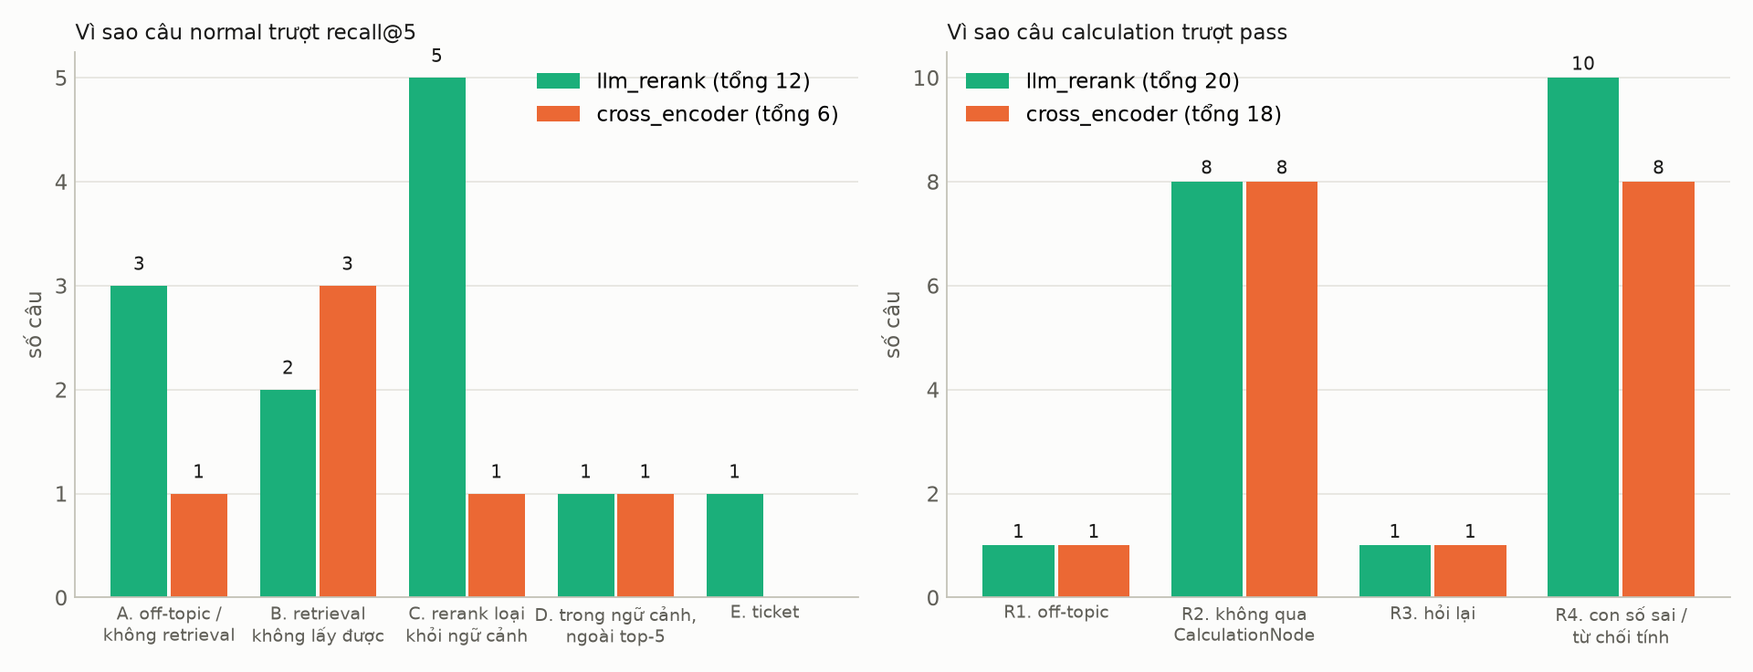
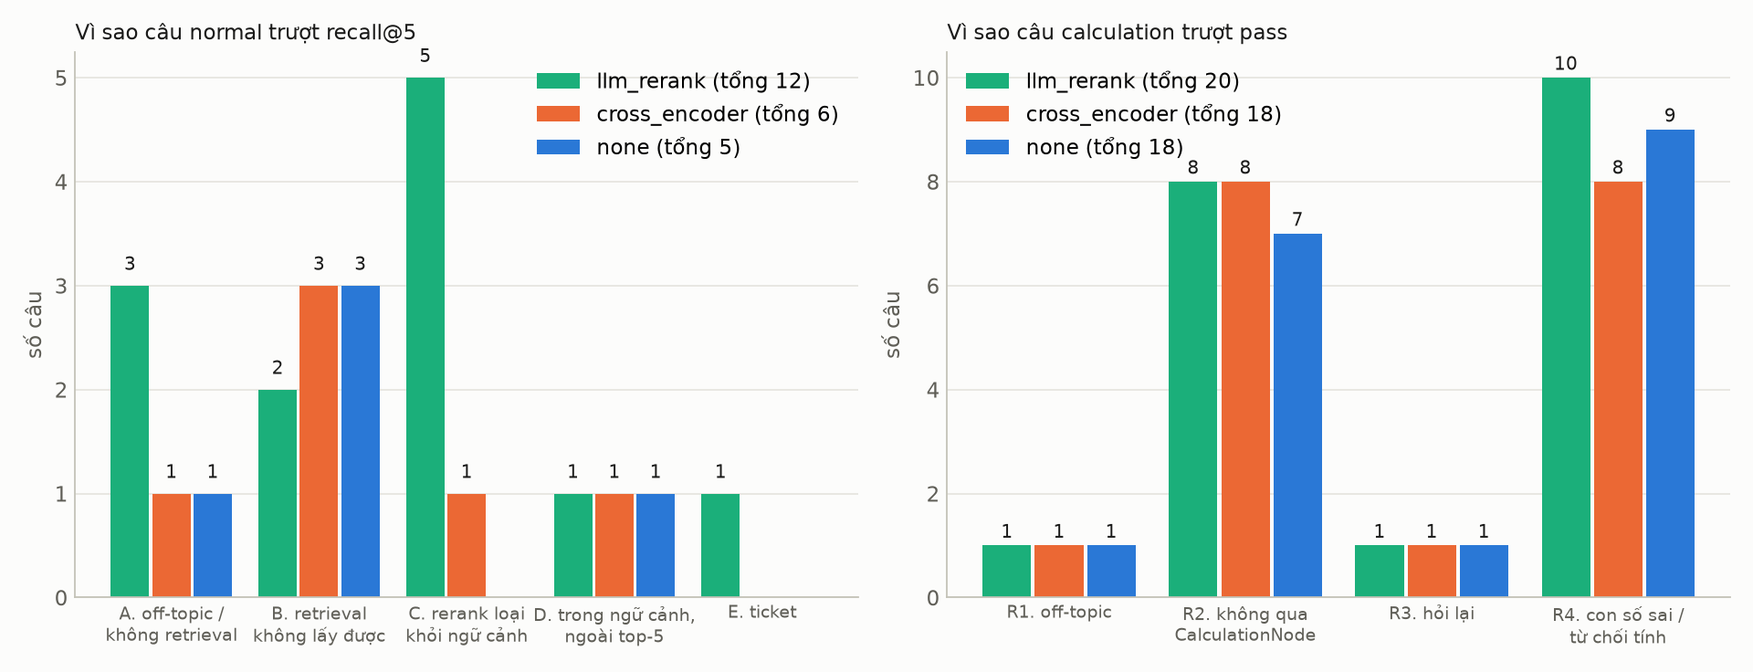
[UNISAGE-106] Báo cáo: bước F chế độ none (runs/rrf-only) — hoà cross_encoder, khuyến nghị đổi sang none mặc định
- report.md 1.3 viết lại khuyến nghị theo 4 chế độ; 7.1/7.2 thêm cột none; 7.7 mới; 8.1/8.2 cập nhật;
  hình 7 và 8 vẽ lại với none; phụ lục lệnh bước F
- plan/spec/todo đồng bộ kết quả và khuyến nghị mới

diff --git a/changes/22-10-2026-CrossEncoderBenchmark/plot_all.py b/changes/22-10-2026-CrossEncoderBenchmark/plot_all.py
@@ -4,7 +4,7 @@ matplotlib.use("Agg")
 import matplotlib.pyplot as plt
 
 OUT = pathlib.Path(sys.argv[1]); OUT.mkdir(exist_ok=True)
-C = {"retrieval": "#2a78d6", "cross_encoder": "#eb6834", "llm_rerank": "#1baf7a", "cross_encoder_then_llm": "#eda100"}
+C = {"retrieval": "#2a78d6", "none": "#2a78d6", "cross_encoder": "#eb6834", "llm_rerank": "#1baf7a", "cross_encoder_then_llm": "#eda100"}
 NAME = {"retrieval": "Thứ tự retrieval (RRF)", "cross_encoder": "cross_encoder", "llm_rerank": "llm_rerank", "cross_encoder_then_llm": "cross_encoder_then_llm"}
 INK, INK2, GRID, SURF = "#1a1a19", "#5f5e57", "#e6e5df", "#fcfcfb"
 plt.rcParams.update({"font.size": 10.5, "font.family": "DejaVu Sans", "axes.edgecolor": "#c3c2b7", "axes.labelcolor": INK2, "xtick.color": INK2, "ytick.color": INK2})
@@ -134,7 +134,7 @@ ax.set_xticks(range(3)); ax.set_xticklabels(names); ax.set_ylabel("ms"); ax.set_
 save(f, "fig6-rerank-latency.png")
 
 # ---- Fig 7: e2e comparison
-E = {"llm_rerank": load("runs/hybrid-on"), "cross_encoder": load("runs/ce-on"), "cross_encoder_then_llm": load("runs/ce-then-llm")}
+E = {"none": load("runs/rrf-only"), "llm_rerank": load("runs/hybrid-on"), "cross_encoder": load("runs/ce-on"), "cross_encoder_then_llm": load("runs/ce-then-llm")}
 def e2e(rs):
     ch = lambda r: r.get("checks") or {}
     normal = [r for r in rs.values() if r["category"] == "normal"]; calc = [r for r in rs.values() if r["category"] == "calculation"]
@@ -146,28 +146,29 @@ def e2e(rs):
         p50=pct([r["total_ms"] for r in rs.values() if r.get("total_ms")], .5), p95=pct([r["total_ms"] for r in rs.values() if r.get("total_ms")], .95),
         usd=st.mean(r["usage"]["usd"] for r in rs.values() if r.get("usage"))*1000, calls=st.mean(r["usage"]["calls"] for r in rs.values() if r.get("usage")))
 S = {n: e2e(rs) for n, rs in E.items()}
-names = ["llm_rerank", "cross_encoder", "cross_encoder_then_llm"]
-f = fig(13, 4.6)
+names = ["none", "llm_rerank", "cross_encoder", "cross_encoder_then_llm"]
+SHORT = ["none\n(RRF)", "llm", "cross_\nencoder", "ce_then_\nllm"]
+f = fig(14, 4.8)
 ax = f.add_subplot(141); style(ax, "Độ chính xác e2e (%)\n154 câu, cache tắt")
 ms = [("normal_recall", "normal\nrecall@5"), ("calc_pass", "calc\npass"), ("calc_recall", "calc\nrecall@5")]
 for j, n in enumerate(names):
-    xs = [i + (j-1)*0.27 for i in range(3)]; vals = [S[n][m] for m, _ in ms]
-    ax.bar(xs, vals, width=0.25, color=C[n], label=n)
-    for xx, v in zip(xs, vals): ax.text(xx, v+1.5, f"{v:.0f}", ha="center", fontsize=8.5, color=INK)
-ax.set_xticks(range(3)); ax.set_xticklabels([l for _, l in ms]); ax.set_ylim(0, 110); ax.legend(frameon=False, fontsize=8.5, loc="upper right")
+    xs = [i + (j-1.5)*0.21 for i in range(3)]; vals = [S[n][m] for m, _ in ms]
+    ax.bar(xs, vals, width=0.2, color=C[n], label=n)
+    for xx, v in zip(xs, vals): ax.text(xx, v+1.5, f"{v:.0f}", ha="center", fontsize=8, color=INK)
+ax.set_xticks(range(3)); ax.set_xticklabels([l for _, l in ms]); ax.set_ylim(0, 118); ax.legend(frameon=False, fontsize=8, loc="upper right", ncol=2)
 ax = f.add_subplot(142); style(ax, "Số câu có dấu hiệu từ chối\n(refusal_hint) trên 154")
-vals = [S[n]["refusal"] for n in names]; ax.bar(range(3), vals, color=[C[n] for n in names], width=0.6)
+vals = [S[n]["refusal"] for n in names]; ax.bar(range(4), vals, color=[C[n] for n in names], width=0.6)
 for i, v in enumerate(vals): ax.text(i, v+1, str(v), ha="center", fontsize=9.5, color=INK)
-ax.set_xticks(range(3)); ax.set_xticklabels(["llm", "cross_\nencoder", "ce_then_\nllm"]); ax.set_ylim(0, 50)
+ax.set_xticks(range(4)); ax.set_xticklabels(SHORT); ax.set_ylim(0, 50)
 ax = f.add_subplot(143); style(ax, "Độ trễ cả lượt (ms)\np50 đậm, p95 nhạt")
 for i, n in enumerate(names):
     ax.bar(i-0.2, S[n]["p50"], width=0.38, color=C[n]); ax.bar(i+0.2, S[n]["p95"], width=0.38, color=C[n], alpha=0.45)
     ax.text(i-0.2, S[n]["p50"]+300, f"{S[n]['p50']/1000:.1f}s".replace(".", ","), ha="center", fontsize=8.5, color=INK); ax.text(i+0.2, S[n]["p95"]+300, f"{S[n]['p95']/1000:.1f}s".replace(".", ","), ha="center", fontsize=8.5, color=INK)
-ax.set_xticks(range(3)); ax.set_xticklabels(["llm", "cross_\nencoder", "ce_then_\nllm"]); ax.set_ylim(0, 21000)
+ax.set_xticks(range(4)); ax.set_xticklabels(SHORT); ax.set_ylim(0, 21000)
 ax = f.add_subplot(144); style(ax, "Chi phí LLM mỗi lượt\n(USD × 1000, số lượt gọi)")
-vals = [S[n]["usd"] for n in names]; ax.bar(range(3), vals, color=[C[n] for n in names], width=0.6)
-for i, n in enumerate(names): ax.text(i, vals[i]+0.1, f"{vals[i]:.2f}\n({S[n]['calls']:.2f} gọi)".replace(".", ","), ha="center", fontsize=8.5, color=INK)
-ax.set_xticks(range(3)); ax.set_xticklabels(["llm", "cross_\nencoder", "ce_then_\nllm"]); ax.set_ylim(0, 7.5)
+vals = [S[n]["usd"] for n in names]; ax.bar(range(4), vals, color=[C[n] for n in names], width=0.6)
+for i, n in enumerate(names): ax.text(i, vals[i]+0.1, f"{vals[i]:.2f}\n({S[n]['calls']:.2f} gọi)".replace(".", ","), ha="center", fontsize=8, color=INK)
+ax.set_xticks(range(4)); ax.set_xticklabels(SHORT); ax.set_ylim(0, 7.5)
 save(f, "fig7-e2e-comparison.png")
 
 # ---- Fig 8: failure reasons per run
@@ -190,12 +191,12 @@ for k_, (cat, fn, title, key_, order_) in enumerate((("normal", normal_reason, "
                                                       ("calculation", calc_reason, "Vì sao câu calculation trượt pass", "pass", ["R1. off-topic", "R2. không qua\nCalculationNode", "R3. hỏi lại", "R4. con số sai /\ntừ chối tính"]))):
     ax = f.add_subplot(1, 2, k_+1); style(ax, title)
     cnts = {}
-    for n in ["llm_rerank", "cross_encoder"]:
+    for n in ["llm_rerank", "cross_encoder", "none"]:
         c_ = collections.Counter(fn(r) for r in E[n].values() if r["category"] == cat and (r.get("checks") or {}).get(key_) is False)
         cnts[n] = [c_.get(o, 0) for o in order_]
     x = range(len(order_))
     for j, n in enumerate(cnts):
-        xs = [i + (j-0.5)*0.4 for i in x]; ax.bar(xs, cnts[n], width=0.38, color=C[n], label=f"{n} (tổng {sum(cnts[n])})")
+        xs = [i + (j-1)*0.28 for i in x]; ax.bar(xs, cnts[n], width=0.26, color=C[n], label=f"{n} (tổng {sum(cnts[n])})")
         for xx, v in zip(xs, cnts[n]):
             if v: ax.text(xx, v+0.15, str(v), ha="center", fontsize=9, color=INK)
     ax.set_xticks(list(x)); ax.set_xticklabels(order_, fontsize=8.5); ax.set_ylabel("số câu"); ax.legend(frameon=False)

diff --git a/changes/22-10-2026-CrossEncoderBenchmark/report.md b/changes/22-10-2026-CrossEncoderBenchmark/report.md
@@ -132,34 +132,50 @@ hoặc tạm giữ `llm` riêng cho nhánh này (graph đã tách hai chỗ gọ
 
 ### 1.3. Khuyến nghị
 
-**Bật `CHAT_RERANK_MODE=cross_encoder` làm mặc định cho môi trường có GPU (dev, eval, và
-production nếu máy chủ có GPU ≥ 2,5 GB trống), giữ `llm` làm fail-over tự động như đã cài.**
-Lý do bằng số, trên cùng 154 câu demo:
+**Kết quả mạnh nhất của benchmark không phải "cross-encoder thắng LLM" mà là "trên corpus này
+bước rerank không còn việc để làm".** Thứ tự RRF của hybrid retrieval đã chạm trần của bộ ứng
+viên; mọi bộ rerank chỉ có thể giữ nguyên hoặc làm hỏng. Bốn chế độ ở tầng câu trả lời, cùng
+154 câu (mục 7, 7.7):
 
-- Nhanh hơn: bước rerank 112 ms thay vì 1 696 ms (median, −93 %); cả lượt chat p50 4,6 s thay vì
-  5,3 s (−13,5 %), p95 7,5 s thay vì 9,5 s (−20 %).
-- Đúng hơn ở nhóm normal: thêm 6 câu có tài liệu đúng trong top-5 (110 so với 104), ít câu từ
-  chối trả lời hơn (32 so với 41), không còn ticket fallback (0 so với 1), độ chính xác trích
-  dẫn 0,910 so với 0,891.
-- Rẻ hơn và ổn định hơn: bớt đúng một lượt gọi LLM mỗi lượt (2,33 so với 3,32), chi phí
-  −10 % (0,00503 so với 0,00557 USD/lượt), kết quả tất định 100 % (LLM chỉ 49,6 % câu cho cùng
-  tập chunk qua 3 lần chạy), và không còn phụ thuộc rate limit 15 lượt/phút của credential
-  RERANK, thứ đã làm LLM rerank lỗi ở 70/154 lượt của run gốc.
+| | `none` (RRF, không rerank) | `cross_encoder` | `llm` (hiện tại) | `cross_encoder_then_llm` |
+|---|---|---|---|---|
+| normal recall@5 | **111/116** | 110/116 | 104/116 | 108/116 |
+| calculation pass | 19/37 (*) | **20/38** | 18/38 | **21/38** |
+| Từ chối trả lời | 31 | 32 | 41 | **29** |
+| Ticket fallback | 0 | 0 | 1 | 1 |
+| Cả lượt p50 / p95 | 4,9 s / 8,2 s (*) | **4,6 s / 7,5 s** | 5,3 s / 9,5 s | 6,6 s / 17,9 s |
+| USD / lượt | **0,00483** | 0,00503 | 0,00557 | 0,00540 |
+| Cần gì thêm | không gì | GPU 2,5 GB + service | API + rate limit | cả hai |
 
-**Không khuyến nghị `cross_encoder_then_llm`**: không chính xác hơn `llm_rerank` (0,876 so với
-0,880 ở bước rerank; 108 so với 104 ở tầng câu trả lời nhưng kém `cross_encoder` 110), vẫn tốn một
-lượt LLM, vẫn dính rate limit (32 lượt lỗi), p95 cả lượt 17,9 s trong điều kiện eval.
+(*) `none` có 1 lượt lỗi 504 của model sinh (d0316, 33 s) không liên quan rerank; bỏ lượt đó
+pass là 19/37 và p95 ~7,9 s.
 
-**Điều kiện và việc cần làm trước khi bật ở production** (chi tiết mục 8):
+`none` và `cross_encoder` **hoà trong mức nhiễu** (±1–2 câu, mức dao động của chính model sinh
+giữa hai lần chạy). Cả hai hơn `llm` rõ: +6–7 câu normal, +1–2 pass calculation, −9–10 câu từ
+chối, −10–13 % chi phí, nhanh hơn 0,5–0,7 s mỗi lượt.
 
-1. Đo lại Bảng 2 và 3 trên RTX 3060 (Windows); nếu p95 > 500 ms thì giảm `RERANKER_MAX_LENGTH`
-   xuống 512 và đo lại recall.
-2. Giữ `CHAT_WEB_SEARCH_ENABLED=false` hoặc chấp nhận rằng ở chế độ `cross_encoder` web search
-   chỉ chạy khi retrieval trả về 0 chunk (cross-encoder không bao giờ "loại hết").
-3. Theo dõi 2 điểm yếu thật của cross-encoder: bảng toàn tên riêng (d0010) và tài liệu trùng
-   tiêu đề (bộ "Kết quả thi chứng chỉ CNTT ca 1/ca 2").
-4. Sửa nguyên nhân rate limit của credential RERANK/Extraction (maxRpm 15) độc lập với ticket
-   này; nó làm méo mọi số đo của biến thể LLM.
+**Khuyến nghị theo thứ tự:**
+
+1. **Đặt `CHAT_RERANK_MODE=none` làm mặc định** ở mọi môi trường: bằng cross-encoder về chất
+   lượng, rẻ nhất, không cần GPU, không thêm tiến trình, không có gì để hỏng. Bước 09a trở thành
+   "sàn cosine 0,45 rồi lấy 8 chunk đầu theo RRF".
+2. **Giữ service cross-encoder và chế độ `cross_encoder` như lựa chọn** cho corpus/câu hỏi mà
+   retrieval xếp kém hơn (hình 1: cross-encoder chỉ có chỗ phát huy khi đường RRF chưa chạm
+   trần), hoặc khi cần điểm liên quan làm tín hiệu cho web search sau này. Bật khi có số đo trên
+   corpus đó, không bật theo mặc định.
+3. **Tắt LLM rerank** trừ khi có lý do khác ngoài độ chính xác: nó là chế độ kém nhất ở mọi cột
+   trừ MRR, không ổn định (49,6 % tái lập) và phụ thuộc rate limit.
+4. **Không triển khai `cross_encoder_then_llm`.**
+
+**Điều kiện và việc cần làm trước khi đổi mặc định** (chi tiết mục 8):
+
+1. Web search: cả `none` lẫn `cross_encoder` đều không có gate "không tài liệu nào trả lời";
+   khi bật lại `CHAT_WEB_SEARCH_ENABLED` cần một gate khác (ví dụ cosine top-1 < ngưỡng).
+2. Trích dẫn ở nhánh calculation (mục 7.4): cả hai chế độ không-LLM đều bớt gắn trích dẫn
+   (recall@5 calculation 19–20 so với 23); câu trả lời không đổi nhưng cần sửa trước khi bật cho
+   nhánh này, hoặc giữ `llm` riêng cho Calculation.
+3. Đo lại trên một corpus thứ hai (bộ official) trước khi khái quát "không cần rerank".
+4. Sửa rate limit của credential RERANK/Extraction (maxRpm 15) độc lập với ticket này.
 
 ---
 
@@ -547,27 +563,28 @@ Run gốc `runs/hybrid-on` (chế độ `llm`, 21/10), `runs/ce-on` (`cross_enco
 
 ### 7.1. Bảng tổng
 
-| Chỉ số | `llm` (hybrid-on) | `cross_encoder` (ce-on) | `cross_encoder_then_llm` (ce-then-llm) |
-|---|---|---|---|
-| normal: recall@5 | 104/116 (89,7 %) | **110/116 (94,8 %)** | 108/116 (93,1 %) |
-| normal: fail (không có tài liệu đúng) | 12 | **7** | 8 |
-| calculation: pass | 18/38 | 20/38 | **21/38** |
-| calculation: recall@5 | **23/38** | 20/38 | 20/38 |
-| Câu có dấu hiệu từ chối (`refusal_hint`) | 41 (31 normal / 10 calc) | 32 (27 / 5) | **29 (23 / 6)** |
-| Ticket fallback | 1 | **0** | 1 |
-| Citation accuracy (TB) | 0,891 | **0,910** | 0,905 |
-| Lượt có node 09a LLM / CE | 122 / 0 | 0 / 123 | 123 / 123 |
-| LLM rerank lỗi (fail-open) | 70 | 0 | 32 (31 rate limit, 1 JSON) |
-| Lượt gọi LLM / lượt chat | 3,32 | **2,33** | 3,30 |
-| Token vào / lượt (TB) | 28 155 | **25 759** | 27 789 |
-| USD / lượt (TB) · cả run | 0,00557 · 0,858 | **0,00503 · 0,774** | 0,00540 · 0,831 |
+| Chỉ số | `llm` (hybrid-on) | `cross_encoder` (ce-on) | `cross_encoder_then_llm` (ce-then-llm) | `none` (rrf-only, mục 7.7) |
+|---|---|---|---|---|
+| normal: recall@5 | 104/116 (89,7 %) | 110/116 (94,8 %) | 108/116 (93,1 %) | **111/116 (95,7 %)** |
+| normal: fail (không có tài liệu đúng) | 12 | 7 | 8 | **6** |
+| calculation: pass | 18/38 | 20/38 | **21/38** | 19/37 (1 lượt lỗi 504) |
+| calculation: recall@5 | **23/38** | 20/38 | 20/38 | 19/38 |
+| Câu có dấu hiệu từ chối (`refusal_hint`) | 41 (31 normal / 10 calc) | 32 (27 / 5) | **29 (23 / 6)** | 31 (24 / 7) |
+| Ticket fallback | 1 | **0** | 1 | **0** |
+| Citation accuracy (TB) | 0,891 | **0,910** | 0,905 | 0,909 |
+| Lượt có node 09a LLM / CE | 122 / 0 | 0 / 123 | 123 / 123 | 0 / 0 |
+| LLM rerank lỗi (fail-open) | 70 | 0 | 32 (31 rate limit, 1 JSON) | 0 |
+| Lượt gọi LLM / lượt chat | 3,32 | 2,33 | 3,30 | **2,34** |
+| Token vào / lượt (TB) | 28 155 | 25 759 | 27 789 | **25 436** |
+| USD / lượt (TB) · cả run | 0,00557 · 0,858 | 0,00503 · 0,774 | 0,00540 · 0,831 | **0,00483 · 0,744** |
 
 ![So sánh e2e ba chế độ](fig7-e2e-comparison.png)
 
-*Hình 7. Tầng câu trả lời, 154 câu, cache tắt. Từ trái: độ chính xác (normal recall@5, calculation
-pass, calculation recall@5 theo trích dẫn), số câu từ chối, độ trễ cả lượt p50/p95, chi phí LLM mỗi
-lượt và số lượt gọi. `cross_encoder` tốt nhất ở 5/6 cột; cột calculation recall@5 giảm là mất
-trích dẫn (mục 7.4). Độ trễ của hai chế độ có LLM gồm cả thời gian chờ rate limit của eval.*
+*Hình 7. Tầng câu trả lời, 154 câu, cache tắt, bốn chế độ. Từ trái: độ chính xác (normal
+recall@5, calculation pass, calculation recall@5 theo trích dẫn), số câu từ chối, độ trễ cả lượt
+p50/p95, chi phí LLM mỗi lượt và số lượt gọi. `none` và `cross_encoder` hoà trong mức nhiễu và
+cùng hơn `llm` ở mọi cột trừ calculation recall@5 (mất trích dẫn, mục 7.4). Độ trễ của hai chế
+độ có LLM gồm cả thời gian chờ rate limit của eval; p95 của `none` có một lượt lỗi 504 (33 s).*
 
 ### 7.2. Độ trễ toàn lượt (ms, 154 lượt, 3 lượt song song)
 
@@ -576,6 +593,7 @@ trích dẫn (mục 7.4). Độ trễ của hai chế độ có LLM gồm cả t
 | `llm` | 3222 | 3790 | 5345 | 6661 | 7900 | 9453 | 12158 | 4963 | 5204 / 9023 | 5737 / 12042 |
 | `cross_encoder` | 3404 | 3881 | **4623** | **5505** | **6134** | **7535** | 27803 | **4359** | **4705 / 7535** | **4558 / 8113** |
 | `cross_encoder_then_llm` | 3826 | 4899 | 6632 | 8441 | 14255 | 17917 | 34600 | 5906 | 5745 / 9908 | 11486 / 22196 |
+| `none` (mục 7.7) | 3574 | 4062 | 4860 | 5664 | 6980 | 8152 | 33751 (lỗi 504) | 4522 | 4738 / 6900 | 5545 / 33054 |
 
 **Đọc số**
 
@@ -744,7 +762,7 @@ Tổng theo nguyên nhân: {'R1': 1, 'R2': 8, 'R3': 1, 'R4': 8}
 
 ![Nguyên nhân trượt theo cấu hình](fig8-failure-reasons.png)
 
-*Hình 8. Số câu trượt theo nguyên nhân ở hai cấu hình. Normal: `cross_encoder` xoá gần hết nhóm C
+*Hình 8. Số câu trượt theo nguyên nhân ở ba cấu hình (`none` thêm ở bước F, mục 7.7). Normal: `cross_encoder` xoá gần hết nhóm C
 (rerank loại tài liệu đúng: 5 → 1) và không còn ticket; phần còn lại là off-topic (A) và retrieval
 (B), rerank không chạm tới. Calculation: nhóm định tuyến R1–R3 (10 câu) giống hệt nhau ở hai cấu
 hình; chỉ nhóm R4 đổi (10 → 8).*
@@ -781,33 +799,73 @@ hình; chỉ nhóm R4 đổi (10 → 8).*
 (A, R1–R3: 13 câu) và **retrieval/corpus** (B: 3 câu), không phải ở rerank. Muốn tăng điểm eval
 tiếp theo thì ưu tiên hai chỗ đó hơn là tinh chỉnh rerank.
 
+### 7.7. Bước F — chế độ `none`: bỏ hẳn bước rerank (`runs/rrf-only`)
+
+Thêm sau khi bước A–E cho thấy thứ tự RRF không thua cross-encoder ở bước rerank. Chế độ
+`CHAT_RERANK_MODE=none` (commit `09ef419`): giữ sàn cosine 0,45 của hybrid, lấy 8 chunk đầu theo
+thứ tự retrieval, không gọi model nào; cùng lệnh eval, cùng điều kiện với ba run trước.
+
+| Chỉ số | `none` | `cross_encoder` | Chênh |
+|---|---|---|---|
+| normal recall@5 | 111/116 | 110/116 | +1 |
+| normal fail | 6 | 7 | −1 |
+| calculation pass | 19/37 (1 lượt lỗi 504) | 20/38 | 0 (cùng 19 đúng trong 37 lượt so được) |
+| calculation recall@5 | 19/38 | 20/38 | −1 |
+| Từ chối | 31 | 32 | −1 |
+| Ticket | 0 | 0 | 0 |
+| Citation accuracy | 0,909 | 0,910 | 0 |
+| Cả lượt p50 / p95 | 4 860 / 8 152 ms | 4 623 / 7 535 ms | +237 / +617 ms |
+| USD / lượt | 0,00483 | 0,00503 | −4 % |
+
+**Đọc số**
+
+- Về chất lượng, `none` và `cross_encoder` **không phân biệt được**: 1 câu normal hơn, 1 câu
+  calculation kém, 1 câu từ chối ít hơn. 35 câu đổi trạng thái giữa hai run nhưng 25 câu chỉ đổi
+  `refusal_hint` qua lại (model sinh diễn đạt khác nhau giữa hai lần chạy), không đổi recall hay
+  pass. Đây là mức nhiễu nền của eval; chênh lệch giữa hai chế độ nhỏ hơn mức đó.
+- Độ trễ cả lượt của `none` **không thấp hơn** `cross_encoder` dù bước rerank bớt 0,11 s: chênh
+  +237 ms ở p50 nằm trong nhiễu của model sinh và rate limit credential Chat (p95 của `none` còn
+  dính một lượt 504 kéo dài 33 s ở d0316). Kết luận đúng là "cả hai cùng nhanh hơn `llm` ~0,5–0,7
+  s", không phải "cross-encoder nhanh hơn none".
+- Chi phí thấp nhất (0,00483 USD/lượt, 2,34 lượt gọi) vì không có bước rerank nào gọi LLM; chênh
+  với `cross_encoder` chỉ 4 % vì cross-encoder cũng không gọi LLM, phần còn lại là nhiễu token
+  của câu trả lời.
+- Hai câu đáng xem: d0012 (`none` đưa "Course specification Interpretation 1" lên top-5 nhờ giữ
+  thứ tự RRF hạng 1–2, cross-encoder đẩy xuống vị trí 7) và d0050 (ngược lại: `none` từ chối,
+  cross-encoder trả lời đúng nhờ "Bản mô tả CTĐT" p17). Mỗi bên một câu, đúng tính chất hoà.
+
+**Dùng để quyết định**: khi hai phương án hoà về chất lượng, chọn phương án **không cần gì
+thêm**: `none` không cần GPU, không có service để theo dõi, không có gì để hỏng, rẻ nhất. Cross-
+encoder giữ lại như công cụ cho corpus mà retrieval xếp kém (chưa gặp ở bộ demo).
+
 ---
 
 ## 8. Đánh giá tổng hợp và khuyến nghị
 
 ### 8.1. Ba biến thể theo bốn trục
 
-| Trục | `llm` (hiện tại) | `cross_encoder` | `cross_encoder_then_llm` |
-|---|---|---|---|
-| Độ trễ bước rerank p50 / p95 | 1,7 s / 3,3 s | **0,11 s / 0,15 s** | 1,7 s / 2,6 s |
-| Độ trễ cả lượt p50 / p95 (eval) | 5,3 s / 9,5 s | **4,6 s / 7,5 s** | 6,6 s / 17,9 s |
-| recall@8 bước rerank (mốc `none` 0,928) | 0,880 | **0,921** | 0,876 |
-| normal recall@5 e2e | 89,7 % | **94,8 %** | 93,1 % |
-| calculation pass e2e | 18/38 | 20/38 | **21/38** |
-| Từ chối trả lời | 41 | 32 | **29** |
-| Tái lập | 49,6 % | **100 %** | 49,6 % |
-| Chi phí LLM / lượt | 0,00557 USD | **0,00503 USD** | 0,00540 USD |
-| Phụ thuộc bên ngoài | API + rate limit | GPU local 2,5 GB | cả hai |
-| Rủi ro riêng | loại nhầm tài liệu (12 câu), nhiễu | bảng tên riêng, tài liệu trùng tên, mất gate web search | cộng rủi ro của cả hai |
+| Trục | `none` (RRF) | `llm` (hiện tại) | `cross_encoder` | `cross_encoder_then_llm` |
+|---|---|---|---|---|
+| Độ trễ bước rerank p50 / p95 | **0 ms** | 1,7 s / 3,3 s | 0,11 s / 0,15 s | 1,7 s / 2,6 s |
+| Độ trễ cả lượt p50 / p95 (eval) | 4,9 s / 8,2 s (lỗi 504) | 5,3 s / 9,5 s | **4,6 s / 7,5 s** | 6,6 s / 17,9 s |
+| recall@8 bước rerank | **0,928** (= trần) | 0,880 | 0,921 | 0,876 |
+| MRR bước rerank | 0,846 | **0,890** | 0,815 | 0,879 |
+| normal recall@5 e2e | **95,7 %** | 89,7 % | 94,8 % | 93,1 % |
+| calculation pass e2e | 19/37 | 18/38 | 20/38 | **21/38** |
+| Từ chối trả lời | 31 | 41 | 32 | **29** |
+| Tái lập | **100 %** | 49,6 % | **100 %** | 49,6 % |
+| Chi phí LLM / lượt | **0,00483 USD** | 0,00557 USD | 0,00503 USD | 0,00540 USD |
+| Phụ thuộc bên ngoài | **không** | API + rate limit | GPU local 2,5 GB | cả hai |
+| Rủi ro riêng | mất gate web search; không sửa được thứ tự khi retrieval xếp kém | loại nhầm tài liệu (12 câu), nhiễu | bảng tên riêng, tài liệu trùng tên, mất gate web search | cộng rủi ro của cả hai |
 
 ### 8.2. Khuyến nghị và điều kiện
 
-1. **Bật `CHAT_RERANK_MODE=cross_encoder` mặc định** ở dev và eval ngay; ở production khi máy chủ
-   có GPU trống ≥ 2,5 GB (3060 12 GB đạt). Fail-over về `llm` đã có sẵn: service tắt → cảnh báo
-   `CROSS_ENCODER_FAILED`, câu trả lời vẫn có (đã test ở Task 2).
+1. **Đặt `CHAT_RERANK_MODE=none` mặc định** (mục 1.3): bằng cross-encoder về chất lượng, rẻ nhất,
+   không cần GPU hay service. `cross_encoder` là lựa chọn thứ hai cho corpus mà retrieval xếp
+   kém; fail-over về `llm` của nó đã có sẵn (service tắt → cảnh báo `CROSS_ENCODER_FAILED`).
 2. **Không triển khai `cross_encoder_then_llm`**; giữ code vì rẻ và có ích cho thử nghiệm model
-   rerank khác.
-3. **Web search**: ở chế độ `cross_encoder` sub-query không bao giờ "trống", nên
+   rerank khác. **Tắt `llm`** trừ khi cần gate web search (xem mục 3).
+3. **Web search**: ở chế độ `none` và `cross_encoder` sub-query không bao giờ "trống", nên
    `CHAT_WEB_SEARCH_MODE=fallback` chỉ kích hoạt khi retrieval trả 0 chunk; `speculative` không
    đổi. Hiện `CHAT_WEB_SEARCH_ENABLED=false` nên chưa ảnh hưởng; khi bật lại web search cần một
    gate khác (ví dụ: điểm cross-encoder top-1 < 0 **và** cosine top-1 < 0,6 → coi là không có
@@ -859,6 +917,7 @@ tiếp theo thì ưu tiên hai chỗ đó hơn là tinh chỉnh rerank.
 | C | `... -a --repeats 3 --variant llm_rerank --variant cross_encoder_then_llm --out benchmark_results/step-c-llm-accuracy` (giãn cách 14/phút) | |
 | D | `... -p --iterations 1 --warmup 2 --variant llm_rerank --variant cross_encoder_then_llm --out benchmark_results/step-d-llm-perf` | |
 | E | `task reranker:serve` + `CHAT_RERANK_MODE=cross_encoder RETRIEVAL_CACHE_REDIS_URL= task eval:run env=eval -- --set demo --category normal --category calculation --variant exact --web off --out runs/ce-on`; tương tự `cross_encoder_then_llm` → `runs/ce-then-llm` | `summary.json`, `results.jsonl` |
+| F | `CHAT_RERANK_MODE=none RETRIEVAL_CACHE_REDIS_URL= task eval:run ... --out runs/rrf-only`; `task benchmark:run env=eval -- hybrid-on -a --variant none --out benchmark_results/step-a2-none` (mốc bước rerank); `CHAT_CONTEXT_MAX_CHUNKS=16 ... --variant none` (trần 0,928) | |
 
 `benchmark_results/` và `runs/` nằm trong gitignore; JSON của từng bước có từng lượt từng câu
 (`kept_ids`, `ce_scores`, `took_ms`) để soi lại.

diff --git a/changes/22-10-2026-CrossEncoderBenchmark/plan.md b/changes/22-10-2026-CrossEncoderBenchmark/plan.md
@@ -107,30 +107,32 @@ Task 7 docs/task sau Task 2–4
 
 Báo cáo đầy đủ, từng số liệu kèm đọc số và cách dùng: `report.md` cùng thư mục. Tóm tắt:
 
-| Trục | `llm` (hiện tại) | `cross_encoder` | `cross_encoder_then_llm` |
-|---|---|---|---|
-| Độ trễ bước rerank p50 / p95 | 1,7 s / 3,3 s | **0,11 s / 0,15 s** | 1,7 s / 2,6 s |
-| Độ trễ cả lượt p50 / p95 (eval, 154 câu) | 5,3 s / 9,5 s | **4,6 s / 7,5 s** | 6,6 s / 17,9 s |
-| recall@8 bước rerank (139 câu, cùng 16 ứng viên) | 0,880 | **0,921** | 0,876 |
-| normal recall@5 e2e | 104/116 | **110/116** | 108/116 |
-| calculation pass e2e | 18/38 | 20/38 | **21/38** |
-| calculation recall@5 e2e (theo trích dẫn) | **23/38** | 20/38 | 20/38 |
-| Từ chối trả lời | 41 | 32 | **29** |
-| Tái lập qua 3 lượt | 49,6 % | **100 %** | 49,6 % |
-| USD / lượt | 0,00557 | **0,00503** | 0,00540 |
-| Chịu tải service (1 câu, 30 req/mức) | — | mức 1/2/4/8: p50 146/269/538/1076 ms, ~7,3 req/s | — |
-| VRAM | — | 1 839 MiB rảnh, 2 987 MiB đỉnh, về 494 MiB sau khi tắt | — |
+| Trục | `none` (RRF, không rerank) | `llm` (hiện tại) | `cross_encoder` | `cross_encoder_then_llm` |
+|---|---|---|---|---|
+| Độ trễ bước rerank p50 / p95 | 0 ms | 1,7 s / 3,3 s | 0,11 s / 0,15 s | 1,7 s / 2,6 s |
+| Độ trễ cả lượt p50 / p95 (eval, 154 câu) | 4,9 s / 8,2 s | 5,3 s / 9,5 s | **4,6 s / 7,5 s** | 6,6 s / 17,9 s |
+| recall@8 bước rerank (139 câu, cùng ứng viên) | **0,928** (= trần) | 0,880 | 0,921 | 0,876 |
+| normal recall@5 e2e | **111/116** | 104/116 | 110/116 | 108/116 |
+| calculation pass e2e | 19/37 | 18/38 | 20/38 | **21/38** |
+| calculation recall@5 e2e (theo trích dẫn) | 19/38 | **23/38** | 20/38 | 20/38 |
+| Từ chối trả lời | 31 | 41 | 32 | **29** |
+| Tái lập qua 3 lượt | 100 % | 49,6 % | 100 % | 49,6 % |
+| USD / lượt | **0,00483** | 0,00557 | 0,00503 | 0,00540 |
+| Chịu tải service (1 câu, 30 req/mức) | — | — | mức 1/2/4/8: p50 146/269/538/1076 ms, ~7,3 req/s | — |
+| VRAM | — | — | 1 839 MiB rảnh, 2 987 MiB đỉnh, về 494 MiB sau khi tắt | — |
 
-Mốc không rerank (8 chunk đầu theo RRF) recall@8 0,935 = trần của bộ ứng viên: trên corpus này
-cross-encoder không thêm recall, nó thay LLM rerank (vốn loại nhầm tài liệu ở 12 câu) với chi phí
-gần 0. Tiêu chí thành công của spec: 3/5 đạt trọn, 2/5 đạt một phần (tiêu chí 2: MRR 0,815 so với
-0,890 dù recall@8 và NDCG vượt; tiêu chí 4: calculation recall@5 20 so với 23, 6 câu mất là mất
-trích dẫn, câu trả lời không đổi). Chi tiết report.md 1.1–1.2, danh sách từng câu trượt 7.6.
+Mốc không rerank (`none`: 8 chunk đầu theo RRF sau sàn dense) recall@8 0,928 = trần của bộ ứng
+viên: trên corpus này bước rerank không còn việc để làm; `none` và `cross_encoder` hoà trong mức
+nhiễu ở tầng câu trả lời, cả hai hơn `llm` rõ (+6–7 câu normal, −9–10 từ chối, −10–13 % chi phí,
+nhanh hơn 0,5–0,7 s). Tiêu chí thành công của spec (cross-encoder so với LLM): 3/5 đạt trọn, 2/5
+đạt một phần (MRR 0,815 so với 0,890; calculation recall@5 20 so với 23 do mất trích dẫn).
+Chi tiết report.md 1.1–1.3, 7.7; danh sách từng câu trượt 7.6.
 
-**Khuyến nghị**: bật `CHAT_RERANK_MODE=cross_encoder` mặc định ở dev/eval và ở production khi máy
-chủ có GPU trống ≥ 2,5 GB; không triển khai `cross_encoder_then_llm`. Điều kiện: đo lại Bảng 2/3
-trên 3060; khi bật lại web search cần gate khác vì cross-encoder không "loại hết"; kiểm tra trích
-dẫn nhánh calculation; sửa rate limit credential RERANK (70/154 lượt lỗi trong run gốc).
+**Khuyến nghị**: đặt `CHAT_RERANK_MODE=none` mặc định (rẻ nhất, không cần GPU, bằng cross-encoder
+về chất lượng); giữ `cross_encoder` làm lựa chọn cho corpus mà retrieval xếp kém; tắt `llm`; không
+triển khai `cross_encoder_then_llm`. Điều kiện: gate web search khác khi bật lại web search; kiểm
+tra trích dẫn nhánh calculation; đo lại trên bộ official trước khi khái quát; sửa rate limit
+credential RERANK (70/154 lượt lỗi trong run gốc).
 
 **Cần đo lại trên Windows 3060**: `-p`, `-c` (kỳ vọng p50 ~250–300 ms, p95 ~350 ms, ~3 req/s);
 `-a` không cần (tất định).

diff --git a/changes/22-10-2026-CrossEncoderBenchmark/todo.md b/changes/22-10-2026-CrossEncoderBenchmark/todo.md
@@ -129,7 +129,9 @@ so với `runs/hybrid-on`.
 **Kết quả Task 5 (26/10):** `runs/ce-on`, `runs/ce-then-llm` so với `runs/hybrid-on`: normal
 recall@5 110 / 108 / 104 trên 116; calculation pass 20 / 21 / 18 trên 38, recall@5 20 / 20 / 23;
 từ chối 32 / 29 / 41; p50 toàn lượt 4,6 / 6,6 / 5,3 s; p95 7,5 / 17,9 / 9,5 s. Chi tiết
-`report.md` mục 7.
+`report.md` mục 7. Bổ sung 26/10 chiều: chế độ `none` (`runs/rrf-only`): normal recall@5
+111/116, calculation pass 19/37, từ chối 31, p50 4,9 s, USD/lượt 0,00483 — hoà `cross_encoder`,
+khuyến nghị cuối chuyển sang `none` mặc định (`report.md` 1.3, 7.7).
 
 ## Task 6: Chạy đủ benchmark trên 4080, khuyến nghị
 
